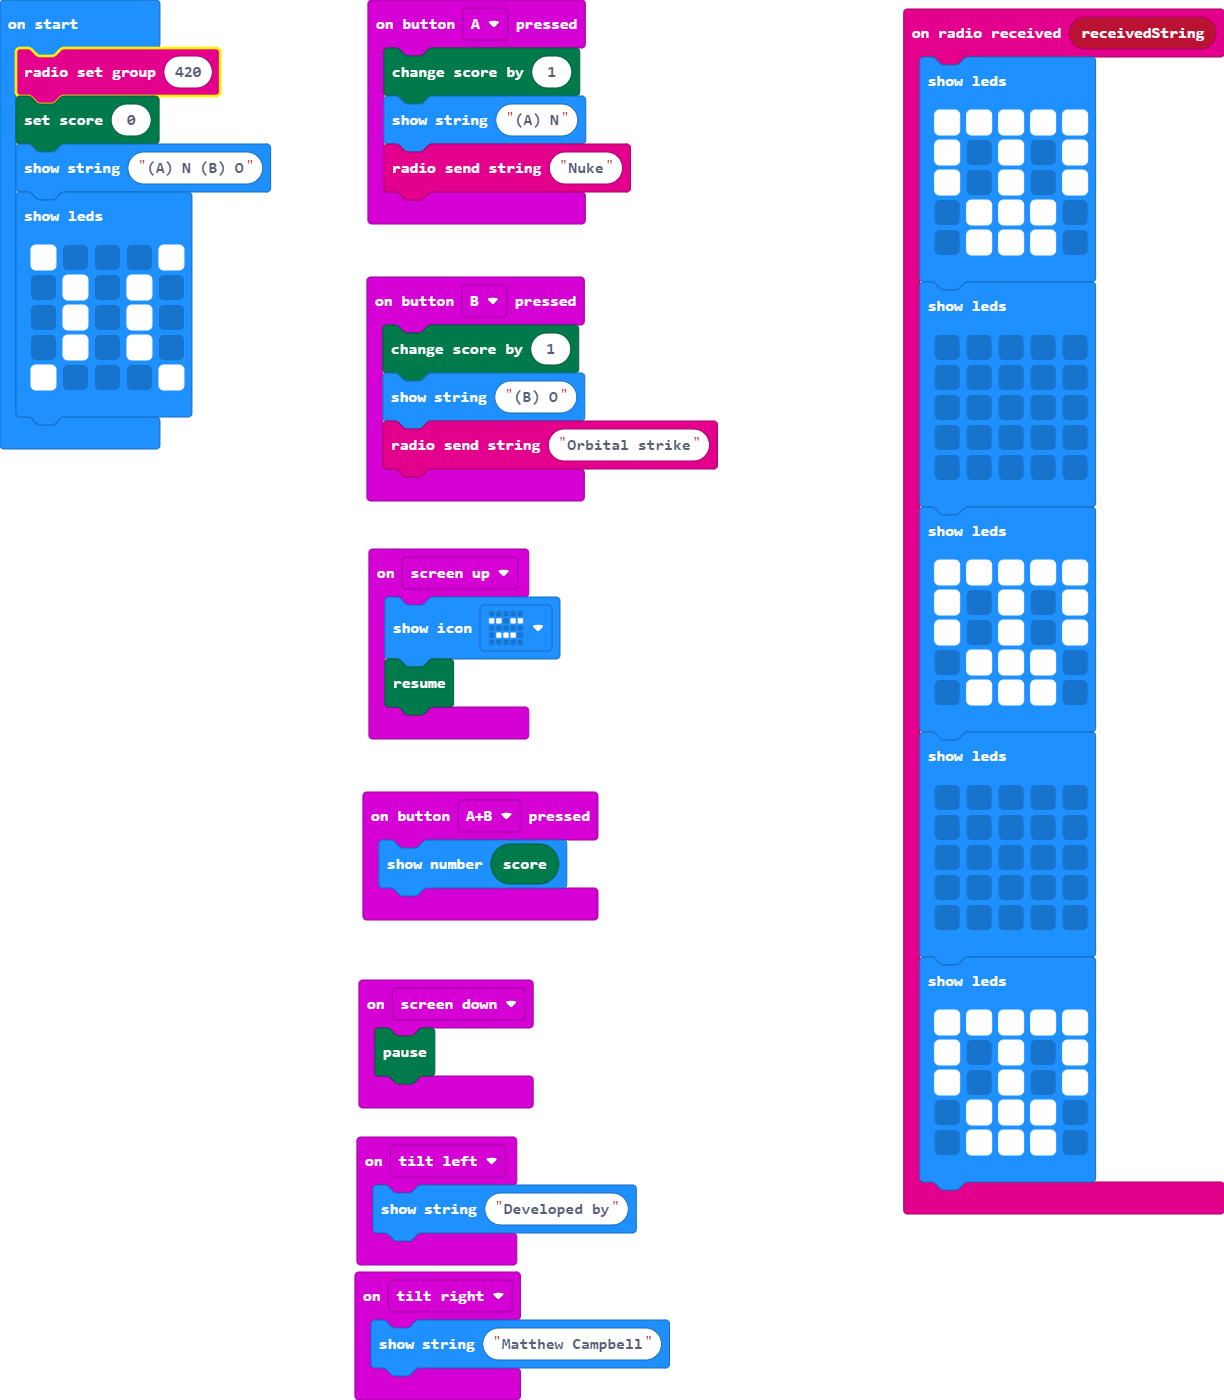
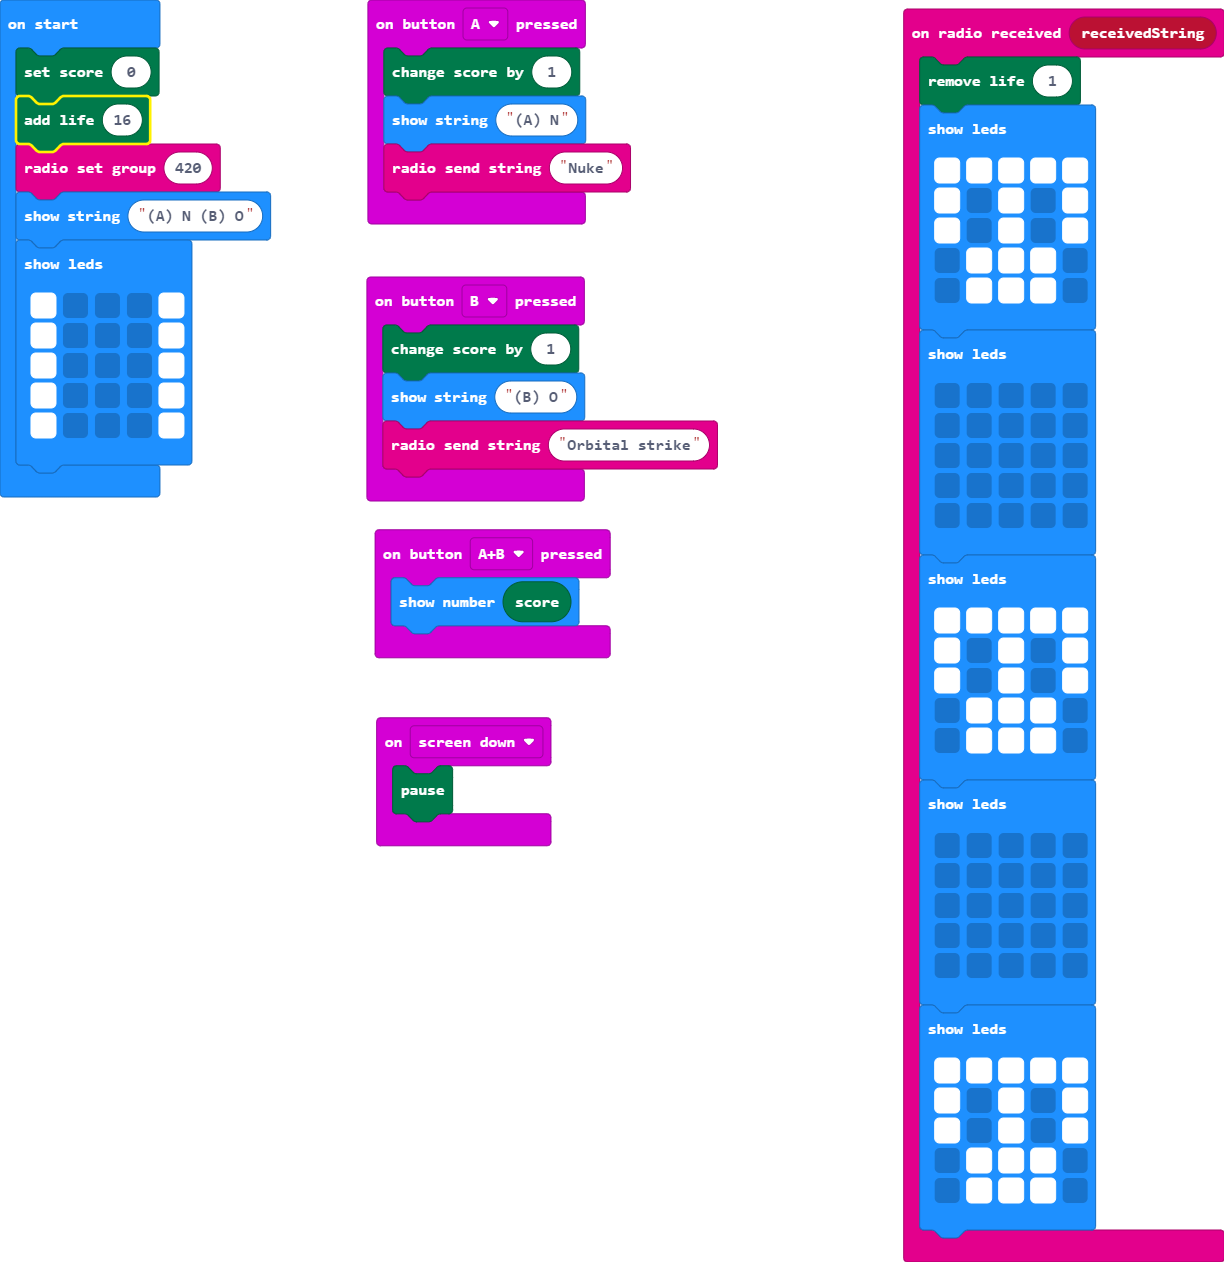
added game over after 16 deaths

Changed region(s): [[0.2794, 0.0, 0.5899, 1.0], [0.7141, 0.0, 1.0, 1.0], [0.0, 0.0, 0.2484, 0.4017]]

diff --git a/main.ts b/main.ts
@@ -3,13 +3,6 @@ input.onButtonPressed(Button.A, function () {
     basic.showString("(A) N")
     radio.sendString("Nuke")
 })
-input.onGesture(Gesture.TiltLeft, function () {
-    basic.showString("Developed by")
-})
-input.onGesture(Gesture.ScreenUp, function () {
-    basic.showIcon(IconNames.Asleep)
-    game.resume()
-})
 input.onGesture(Gesture.ScreenDown, function () {
     game.pause()
 })
@@ -17,6 +10,7 @@ input.onButtonPressed(Button.AB, function () {
     basic.showNumber(game.score())
 })
 radio.onReceivedString(function (receivedString) {
+    game.removeLife(1)
     basic.showLeds(`
         # # # # #
         # . # . #
@@ -58,16 +52,14 @@ input.onButtonPressed(Button.B, function () {
     basic.showString("(B) O")
     radio.sendString("Orbital strike")
 })
-input.onGesture(Gesture.TiltRight, function () {
-    basic.showString("Matthew Campbell")
-})
-radio.setGroup(420)
 game.setScore(0)
+game.addLife(16)
+radio.setGroup(420)
 basic.showString("(A) N (B) O")
 basic.showLeds(`
     # . . . #
-    . # . # .
-    . # . # .
-    . # . # .
+    # . . . #
+    # . . . #
+    # . . . #
     # . . . #
     `)
